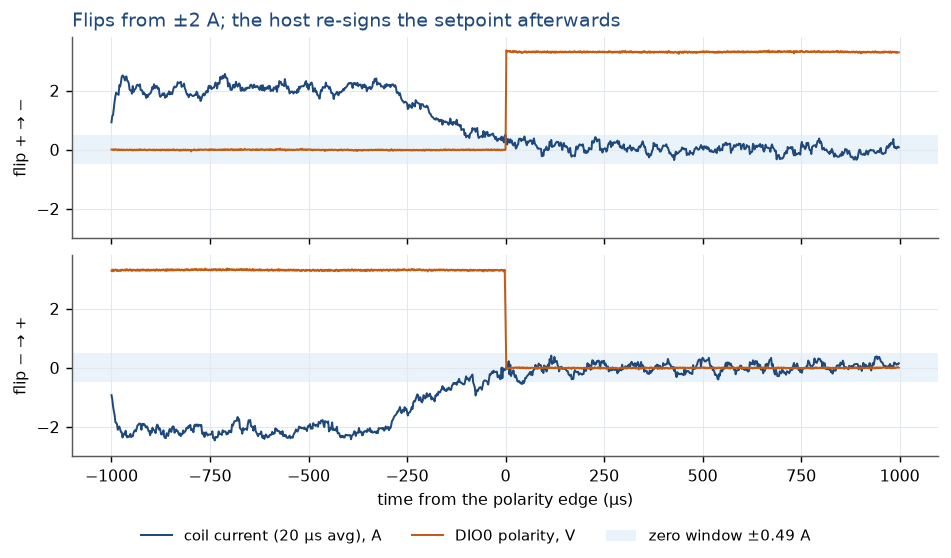
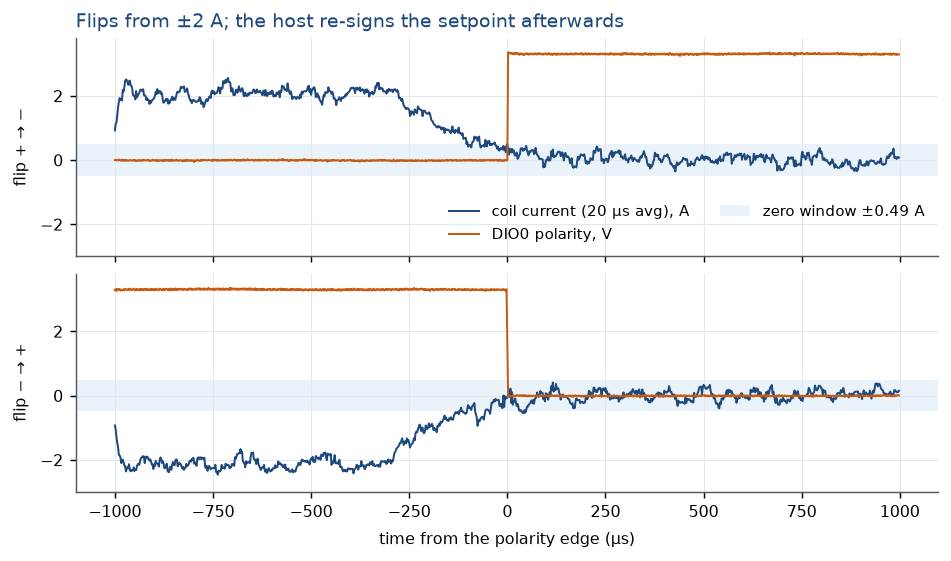
Benchtop log plots: legends inside the plot, never on data or other text
sim/plotfit.py places each legend inside the axes at the first position
whose box touches no data line, marker, error bar, filled area, shaded
band or other text (adding headroom above the data if needed), re-places
legends after layout shifts, and checks every finished figure for text
that touches data or other text. All 27 benchtop plots regenerated with
it (0 overlaps reported), including snap_sim.png from fresh bench traces.

diff --git a/sim/plotfit.py b/sim/plotfit.py
@@ -1,0 +1,182 @@
+"""Place legends inside the plot area without covering data or other text.
+
+place_legend(ax) tries the standard positions inside the axes and keeps the first one whose box
+touches no data line, marker, error bar or filled area and no other text in the axes. If none is
+free it adds headroom above the data (up to +60 % of the y-range) and tries again; only then does
+the legend go outside the axes. check_overlaps(fig) reports any text box that still touches data or
+another text box in a finished figure (run it after the last layout change, just before saving).
+"""
+import numpy as np
+from matplotlib.collections import LineCollection, PathCollection, PolyCollection
+from matplotlib.legend import Legend
+from matplotlib.lines import Line2D
+from matplotlib.text import Text
+
+LOCS = ("upper right", "upper left", "lower right", "lower left", "center right", "center left",
+        "upper center", "lower center", "center")
+PAD = 8            # px of clearance around a text box
+
+
+def _dense(xy, step=1.5):
+    """Points along a polyline in display coordinates, at most `step` px apart."""
+    xy = xy[np.all(np.isfinite(xy), axis=1)]
+    if len(xy) < 2:
+        return xy
+    seg = np.diff(xy, axis=0)
+    n = np.maximum(1, np.ceil(np.hypot(seg[:, 0], seg[:, 1]) / step).astype(int))
+    if n.max() == 1:
+        return xy
+    parts = [xy[i] + np.linspace(0, 1, k, endpoint=False)[:, None] * seg[i] for i, k in enumerate(n)]
+    return np.vstack(parts + [xy[-1:]])
+
+
+def _data_geometry(ax, exclude=()):
+    """(points in display px, filled paths in display px) of the data drawn in ax."""
+    pts, fills = [], []
+    for ln in ax.get_lines():
+        if ln in exclude or not ln.get_visible():
+            continue
+        xy = ln.get_transform().transform(np.asarray(ln.get_xydata(), float))
+        if ln.get_linestyle() not in ("None", "", " ") and len(xy) > 1:
+            pts.append(_dense(xy))
+        elif ln.get_marker() not in (None, "None", "", " "):
+            pts.append(xy)
+        if ln.get_marker() not in (None, "None", "", " "):
+            r = ln.get_markersize() * ax.figure.dpi / 72 / 2
+            pts.append(np.vstack([xy + [dx, dy] for dx in (-r, r) for dy in (-r, r)]))
+    for c in ax.collections:
+        if not c.get_visible():
+            continue
+        if isinstance(c, LineCollection):
+            for seg in c.get_segments():
+                pts.append(_dense(c.get_transform().transform(np.asarray(seg, float))))
+        elif isinstance(c, PolyCollection) and c.get_label() != "_bg":
+            for p in c.get_paths():
+                fills.append(p.transformed(c.get_transform()))
+        elif isinstance(c, PathCollection):
+            pts.append(c.get_offset_transform().transform(c.get_offsets()))
+    for patch in ax.patches:              # shaded bands (axhspan) and other filled shapes
+        if patch.get_visible() and patch.get_label() != "_bg":
+            fills.append(patch.get_path().transformed(patch.get_transform()))
+    pts = np.vstack(pts) if pts else np.zeros((0, 2))
+    return pts, fills
+
+
+def _hits(bb, pts, fills):
+    x0, y0, x1, y1 = bb.x0 - PAD, bb.y0 - PAD, bb.x1 + PAD, bb.y1 + PAD
+    if len(pts) and np.any((pts[:, 0] >= x0) & (pts[:, 0] <= x1) & (pts[:, 1] >= y0) & (pts[:, 1] <= y1)):
+        return True
+    if fills:
+        gx, gy = np.meshgrid(np.linspace(x0, x1, 9), np.linspace(y0, y1, 5))
+        probe = np.column_stack([gx.ravel(), gy.ravel()])
+        if any(p.contains_points(probe).any() for p in fills):
+            return True
+    return False
+
+
+def _texts(ax, exclude=()):
+    out = [t for t in ax.texts if t.get_visible() and t.get_text() and t not in exclude]
+    return out
+
+
+def _inside(bb, ax):
+    a = ax.get_window_extent()
+    return bb.x0 >= a.x0 - 1 and bb.x1 <= a.x1 + 1 and bb.y0 >= a.y0 - 1 and bb.y1 <= a.y1 + 1
+
+
+def place_legend(ax, handles=None, labels=None, fontsize=8.5, ncols=(1, 2), headroom=(0, .15, .3, .45, .6),
+                 **kw):
+    """Put the legend inside ax where it covers nothing; returns the Legend."""
+    fig = ax.figure
+    if handles is None:
+        handles, labels = ax.get_legend_handles_labels()
+    if not handles:
+        return None
+    y0, y1 = ax.get_ylim()
+    span = y1 - y0
+    for h in headroom:
+        ax.set_ylim(y0, y1 + h * span)
+        fig.canvas.draw()
+        r = fig.canvas.get_renderer()
+        pts, fills = _data_geometry(ax)
+        others = [t.get_window_extent(r) for t in _texts(ax)]
+        for nc in ncols:
+            for loc in LOCS:
+                leg = ax.legend(handles, labels, loc=loc, ncol=nc, fontsize=fontsize, **kw)
+                bb = leg.get_window_extent(r)
+                if _inside(bb, ax) and not _hits(bb, pts, fills) and not any(bb.overlaps(o) for o in others):
+                    return leg
+                leg.remove()
+    ax.set_ylim(y0, y1)
+    return ax.legend(handles, labels, loc="upper left", bbox_to_anchor=(1.01, 1.0), borderaxespad=0,
+                     fontsize=fontsize, **kw)
+
+
+def legend_covers_data(ax):
+    """True when ax's legend sits inside the axes on top of data or another text."""
+    leg = ax.get_legend()
+    if leg is None:
+        return False
+    fig = ax.figure
+    fig.canvas.draw()
+    r = fig.canvas.get_renderer()
+    bb = leg.get_window_extent(r)
+    if not _inside(bb, ax):
+        return False
+    pts, fills = _data_geometry(ax)
+    return _hits(bb, pts, fills) or any(bb.overlaps(t.get_window_extent(r)) for t in _texts(ax))
+
+
+def settle_legends(fig, rounds=3):
+    """Placing one legend can shift the constrained layout and move another panel's data under its
+    legend: re-place any legend that now covers something, until none does."""
+    for _ in range(rounds):
+        bad = [ax for ax in fig.axes if legend_covers_data(ax)]
+        if not bad:
+            return
+        for ax in bad:
+            leg = ax.get_legend()
+            hh, ll = leg.legend_handles, [t.get_text() for t in leg.get_texts()]
+            nc = leg._ncols
+            leg.remove()
+            place_legend(ax, hh, ll, ncols=(nc, 1, 2))
+
+
+def check_overlaps(fig, name=""):
+    """List text boxes (legends, axes texts, titles, axis labels, tick labels) that touch data or each
+    other. Returns the list of problems; prints them."""
+    fig.canvas.draw()
+    r = fig.canvas.get_renderer()
+    problems = []
+    boxes = []
+    for ax in fig.axes:
+        pts, fills = _data_geometry(ax)
+        leg = ax.get_legend()
+        items = ([("legend", leg)] if leg else []) + [(f"text '{t.get_text()[:30]}'", t) for t in _texts(ax)]
+        for what, art in items:
+            bb = art.get_window_extent(r)
+            if _inside(bb, ax) and _hits(bb, pts, fills):
+                problems.append(f"{name}: {what} covers data")
+        for what, art in items + [("title", ax.title), ("xlabel", ax.xaxis.label), ("ylabel", ax.yaxis.label)]:
+            if isinstance(art, (Text, Legend)) and art.get_visible() and (not isinstance(art, Text) or art.get_text()):
+                boxes.append((what, art.get_window_extent(r)))
+        for axis in (ax.xaxis, ax.yaxis):            # only tick labels that are actually drawn
+            lo, hi = sorted(axis.get_view_interval())
+            for tk in axis.get_major_ticks():
+                tl = tk.label1
+                if tl.get_visible() and tl.get_text() and lo <= tk.get_loc() <= hi:
+                    boxes.append((f"tick '{tl.get_text()}'", tl.get_window_extent(r)))
+    for lg in fig.legends:
+        boxes.append(("figure legend", lg.get_window_extent(r)))
+    if fig._suptitle is not None:
+        boxes.append(("suptitle", fig._suptitle.get_window_extent(r)))
+    for i in range(len(boxes)):
+        for j in range(i + 1, len(boxes)):
+            (a, ba), (b, bb) = boxes[i], boxes[j]
+            if a.startswith("tick") and b.startswith("tick"):
+                continue
+            if ba.width > 0 and bb.width > 0 and ba.overlaps(bb):
+                problems.append(f"{name}: {a} overlaps {b}")
+    for p in problems:
+        print("  OVERLAP", p)
+    return problems

diff --git a/sim/plot_snap_traces.py b/sim/plot_snap_traces.py
@@ -15,11 +15,14 @@ import matplotlib
 matplotlib.use("Agg")
 import matplotlib.pyplot as plt
 
+from plotfit import check_overlaps, place_legend, settle_legends   # sim/plotfit.py
+
 src = Path(sys.argv[1] if len(sys.argv) > 1 else "sim/traces")
 out = sys.argv[2] if len(sys.argv) > 2 else "snap_sim.png"
 T = 1.024                                       # us per PI tick
-plt.rcParams.update({"font.family": "DejaVu Sans", "font.size": 10})
-# constrained layout + one legend below the figure: no text on the traces
+plt.rcParams.update({"font.family": "DejaVu Sans", "font.size": 10, "legend.frameon": False,
+                     "axes.labelpad": 6})
+# constrained layout; legends inside the panels on free space only (sim/plotfit.py)
 fig, axes = plt.subplots(2, 2, figsize=(11, 7), sharex="col", layout="constrained")
 cols = {"off": "#C0504D", "on": "#1F497D"}
 for c, (name, title, xmax) in enumerate((
@@ -42,9 +45,11 @@ for c, (name, title, xmax) in enumerate((
     axes[1, c].set_xlim(-100, xmax)
     axes[0, c].grid(alpha=0.3)
     axes[1, c].grid(alpha=0.3)
-fig.legend(*axes[0, 0].get_legend_handles_labels(), loc="outside lower center", ncol=2,
-           fontsize=9, frameon=False)
 fig.suptitle("Zero-setpoint snap, HDL in the loop (cocotb + Icarus, plant model)",
              fontsize=12)
+for c in (0, 1):
+    place_legend(axes[0, c])
+settle_legends(fig)
+check_overlaps(fig, out)
 fig.savefig(out, dpi=110)
 print("wrote", out)
